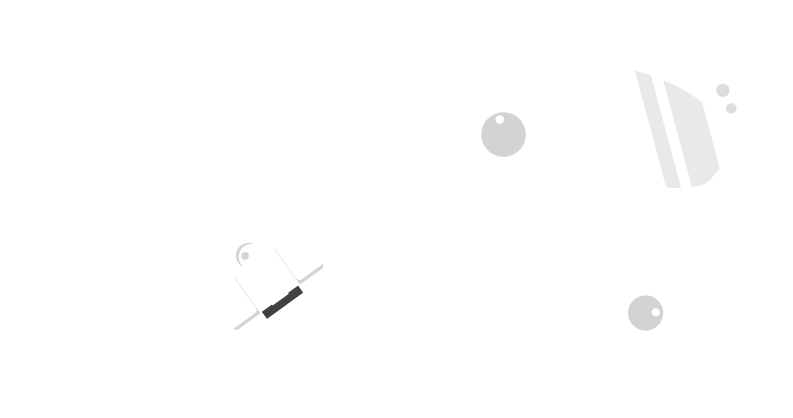
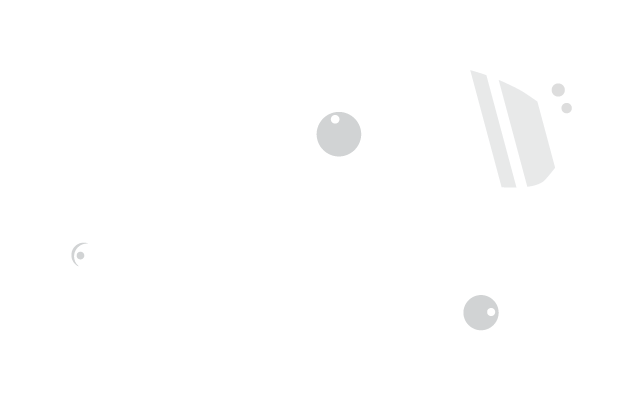
Improve page not foound

diff --git a/src/components/PageNotFound/PageNotFound.module.css b/src/components/PageNotFound/PageNotFound.module.css
@@ -11,19 +11,20 @@
   align-items: center;
   color: white;
 }
-.wrapper img {
-  max-width: 100%;
-  max-height: 100%;
-  z-index: 2;
-}
 
-.wrapper p {
-  font-size: 1rem;
+.textWrapper {
   z-index: 2;
+  max-width: min(80%, 600px);
+  text-align: center;
+  font-size: 1rem;
+}
+.textWrapper img {
+  max-width: 60%;
+  max-height: 60%;
 }
 
 @media (min-width: 550px) {
-  .wrapper p {
+  .textWrapper {
     font-size: 1.4rem;
   }
 }
@@ -44,12 +45,12 @@
 
 .stars {
   background: #000 url(http://www.script-tutorials.com/demos/360/images/stars.png) repeat top center;
-  z-index: 0;
+  z-index: 1;
 }
 
 .twinkling {
   background: transparent url(http://www.script-tutorials.com/demos/360/images/twinkling.png) repeat top center;
-  z-index: 1;
+  z-index: 2;
 
   -moz-animation: move-twink-back 200s linear infinite;
   -ms-animation: move-twink-back 200s linear infinite;

diff --git a/src/components/PageNotFound/PageNotFound.jsx b/src/components/PageNotFound/PageNotFound.jsx
@@ -6,11 +6,13 @@ export function PageNotFound() {
     <div className={styles.wrapper}>
       <div className={styles.stars}></div>
       <div className={styles.twinkling}></div>
-      <img src='./assets/astronaut-notfound.png' />
-      <p>
-        Hey there! You went way beyond our galaxy and we can't find what you're looking for. But we can take you back to
-        the <Link to='/'>home page</Link>.
-      </p>
+      <div className={styles.textWrapper}>
+        <img src='./assets/astronaut-notfound.png' />
+        <p>
+          Hey there! You went way beyond our galaxy and we can't find what you're looking for. But we can take you back
+          to the <Link to='/'>home page</Link>.
+        </p>
+      </div>
     </div>
   );
 }
